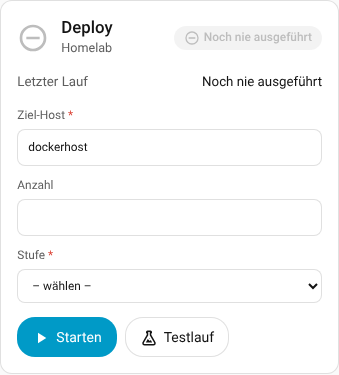
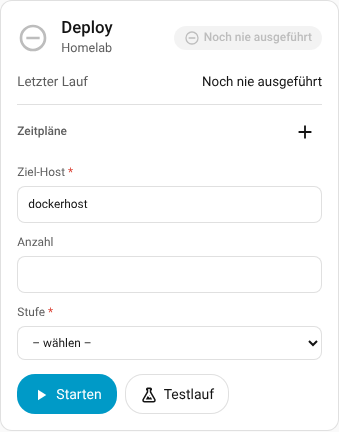
feat: Zeitplaene in der Template-Karte anlegen, aendern und loeschen
Plus-Knopf und Stift oeffnen ein Formular (Cron-Text, Name); Loeschen mit Rueckfrage.
Option edit_schedules blendet es aus. Browser-Test mit 206 Pruefungen.

Claude-Session: https://claude.ai/code/session_01RxcXBPCZy8kiUCVNSxwdkB

diff --git a/custom_components/semaphore_ui/frontend/semaphore-ui-card.js b/custom_components/semaphore_ui/frontend/semaphore-ui-card.js
@@ -68,6 +68,15 @@ const TEXTS = {
     schedule_next: "nächster Lauf",
     schedule_tz: "Zeitzone",
     schedule_switch: "Zeitplan {name} ein- oder ausschalten",
+    sched_add: "Zeitplan hinzufügen",
+    sched_edit: "Zeitplan {name} bearbeiten",
+    sched_cron: "Cron-Text",
+    sched_name: "Name",
+    sched_hint: "Minute Stunde Tag Monat Wochentag, z. B. 0 3 * * 1 (montags 3 Uhr)",
+    sched_save: "Speichern",
+    sched_cancel: "Abbrechen",
+    sched_delete: "Löschen",
+    sched_delete_sure: "Wirklich löschen?",
     last_task: "Zuletzt gelaufen",
     no_templates: "Keine Templates gefunden",
     choose_device_t: "Bitte im Karten-Editor das Template wählen (Eintrag „Projekt › Template“).",
@@ -111,6 +120,7 @@ const TEXTS = {
       show_integration_version: "Version der Integration anzeigen",
       hacs_update_entity: "Update-Entität der Integration (HACS), optional",
       show_schedules: "Zeitpläne anzeigen",
+      edit_schedules: "Zeitpläne anlegen, ändern und löschen erlauben",
     },
   },
   en: {
@@ -167,6 +177,15 @@ const TEXTS = {
     schedule_next: "next run",
     schedule_tz: "Time zone",
     schedule_switch: "Switch schedule {name} on or off",
+    sched_add: "Add schedule",
+    sched_edit: "Edit schedule {name}",
+    sched_cron: "Cron expression",
+    sched_name: "Name",
+    sched_hint: "minute hour day month weekday, e.g. 0 3 * * 1 (Mondays 3 am)",
+    sched_save: "Save",
+    sched_cancel: "Cancel",
+    sched_delete: "Delete",
+    sched_delete_sure: "Really delete?",
     last_task: "Last run",
     no_templates: "No templates found",
     choose_device_t: "Please choose the template in the card editor (entry \"Project › Template\").",
@@ -210,6 +229,7 @@ const TEXTS = {
       show_integration_version: "Show the version of the integration",
       hacs_update_entity: "Update entity of the integration (HACS), optional",
       show_schedules: "Show schedules",
+      edit_schedules: "Allow creating, changing and deleting schedules",
     },
   },
 };
@@ -438,7 +458,15 @@ const STYLE = `
   .item .name { overflow: hidden; text-overflow: ellipsis; white-space: nowrap; }
   .item .sub { overflow: hidden; text-overflow: ellipsis; white-space: nowrap; }
   .sched { margin-top: 12px; border-top: 1px solid var(--divider-color); padding-top: 6px; }
-  .sched-title { color: var(--secondary-text-color); font-size: 0.85em; font-weight: 500; margin: 4px 0 2px; }
+  .sched-title { color: var(--secondary-text-color); font-size: 0.85em; font-weight: 500; margin: 4px 0 2px; display: flex; align-items: center; justify-content: space-between; }
+  .sched-title button.icon, .sched-row button.icon { --mdc-icon-size: 18px; }
+  .sform { display: grid; gap: 8px; padding: 8px 0 4px; }
+  .sform label { display: grid; gap: 4px; font-size: 0.85em; color: var(--secondary-text-color); }
+  .sform input { font: inherit; color: var(--primary-text-color); background: var(--card-background-color, #fff);
+            border: 1px solid var(--divider-color); border-radius: 8px; padding: 8px 10px; min-width: 0; }
+  .sform input:focus { outline: 2px solid var(--primary-color); outline-offset: -1px; }
+  .sform .hint { font-size: 0.8em; color: var(--secondary-text-color); }
+  .sform .actions { margin-top: 2px; }
   .sched-row { display: flex; align-items: center; gap: 12px; padding: 5px 0; }
   .sched-row .main { flex: 1; min-width: 0; cursor: pointer; }
   .sched-row .name { overflow: hidden; text-overflow: ellipsis; white-space: nowrap; }
@@ -481,6 +509,11 @@ class SemaphoreBaseCard extends HTMLElement {
     this._ticker = null;
     this.shadowRoot.addEventListener("click", (ev) => this._onClick(ev));
     this.shadowRoot.addEventListener("change", (ev) => this._onChange(ev));
+    // typed text of the schedule form survives a redraw
+    this.shadowRoot.addEventListener("input", (ev) => {
+      const field = ev.target && ev.target.dataset && ev.target.dataset.sf;
+      if (field && this._sf) this._sf[field] = ev.target.value;
+    });
     // the clickable header areas are no <button>s: make them work with Enter / Space, too
     this.shadowRoot.addEventListener("keydown", (ev) => {
       if ((ev.key === "Enter" || ev.key === " ") && ev.target.matches && ev.target.matches('[data-action="more-info"], [data-action="filter"]')) {
@@ -646,11 +679,68 @@ class SemaphoreBaseCard extends HTMLElement {
     const text = bits.filter(Boolean).join(" · ");
     const when = on && item.next_run ? fmtDate(item.next_run, hass) : "";
     const label = T.schedule_switch.replace("{name}", item.name);
+    if (this._sf && this._sf.id === item.id) return this._scheduleForm(T, hass);
+    const editLabel = T.sched_edit.replace("{name}", item.name);
+    const editBtn = this._config.edit_schedules && item.entity_id
+      ? `<button class="icon" data-action="sched-edit" data-id="${esc(item.id)}" data-entity="${esc(item.entity_id)}" aria-label="${esc(editLabel)}" title="${esc(editLabel)}"><ha-icon icon="mdi:pencil-outline"></ha-icon></button>`
+      : "";
     return `<div class="sched-row">
       <button class="tgl${on ? " on" : ""}${busy ? " busy" : ""}" role="switch" aria-checked="${on}" aria-label="${esc(label)}" title="${esc(busy ? tx(hass).busy : label)}"${busy ? ' aria-busy="true"' : ""} data-action="schedule" data-entity="${esc(item.entity_id || "")}" ${usable ? "" : "disabled"}><span class="knob"></span></button>
       <div class="main"${item.entity_id ? ` data-action="more-info" data-entity="${esc(item.entity_id)}"` : ""}>
         <div class="name">${esc(item.name)}</div><div class="sub" title="${esc(when ? `${text} (${when})` : text)}">${esc(text)}</div>
+      </div>${editBtn}</div>`;
+  }
+
+  /** Inline form to create (``id`` null) or change a schedule of this template. */
+  _scheduleForm(T, hass) {
+    const f = this._sf;
+    const sure = !!f.confirmDelete;
+    const busy = this._busy.has("sched-form");
+    return `<div class="sform" data-sform="1">
+      <label>${esc(T.sched_cron)}<input type="text" maxlength="200" data-sf="cron" value="${esc(f.cron)}" autocomplete="off" spellcheck="false" placeholder="0 3 * * 1"></label>
+      <label>${esc(T.sched_name)}<input type="text" maxlength="100" data-sf="name" value="${esc(f.name)}" autocomplete="off"></label>
+      <div class="hint">${esc(T.sched_hint)}</div>
+      <div class="actions">
+        <button class="btn primary${busy ? " busy" : ""}" data-action="sched-save"${busy ? " disabled" : ""}><ha-icon icon="mdi:check"></ha-icon>${esc(T.sched_save)}</button>
+        <button class="btn" data-action="sched-cancel"><ha-icon icon="mdi:close"></ha-icon>${esc(T.sched_cancel)}</button>
+        ${f.id != null ? `<button class="btn danger" data-action="sched-delete"${busy ? " disabled" : ""}><ha-icon icon="mdi:delete-outline"></ha-icon>${esc(sure ? T.sched_delete_sure : T.sched_delete)}</button>` : ""}
       </div></div>`;
+  }
+  _openScheduleForm(init) {
+    this._sf = { id: null, entity: "", cron: "", name: "", confirmDelete: false, ...init };
+    this._sig = "";
+    this._update();
+    // put the cursor into the first field
+    setTimeout(() => this.shadowRoot.querySelector('[data-sf="cron"]')?.focus(), 0);
+  }
+  _closeScheduleForm() {
+    this._sf = null;
+    this._sig = "";
+    this._update();
+  }
+  async _saveSchedule() {
+    const f = this._sf;
+    if (!f) return;
+    const cron = (f.cron || "").trim();
+    if (!cron) return this.shadowRoot.querySelector('[data-sf="cron"]')?.focus();
+    const name = (f.name || "").trim();
+    const ok = await this._busyRun("sched-form", true, () =>
+      f.id == null
+        ? this._call(SEMAPHORE_DOMAIN, "create_schedule", { device_id: this._config.device_id, cron, ...(name ? { name } : {}) })
+        : this._call(SEMAPHORE_DOMAIN, "update_schedule", { entity_id: f.entity, cron, ...(name ? { name } : {}) })
+    );
+    if (ok) this._closeScheduleForm();
+  }
+  async _deleteSchedule() {
+    const f = this._sf;
+    if (!f || f.id == null) return;
+    if (!f.confirmDelete) {
+      f.confirmDelete = true; // second click confirms
+      this._sig = "";
+      return this._update();
+    }
+    const ok = await this._busyRun("sched-form", true, () => this._call(SEMAPHORE_DOMAIN, "delete_schedule", { entity_id: f.entity }));
+    if (ok) this._closeScheduleForm();
   }
   _toggleSchedule(entity) {
     if (!entity) return;
@@ -673,7 +763,7 @@ class SemaphoreBaseCard extends HTMLElement {
 /* ======================================================== template card */
 class SemaphoreTemplateCard extends SemaphoreBaseCard {
   static get defaults() {
-    return { show_survey: true, show_details: true, confirm_start: false, show_schedules: true };
+    return { show_survey: true, show_details: true, confirm_start: false, show_schedules: true, edit_schedules: true };
   }
   static getConfigElement() {
     return document.createElement("semaphore-ui-card-editor");
@@ -700,7 +790,7 @@ class SemaphoreTemplateCard extends SemaphoreBaseCard {
       const s = this._hass.states[id];
       return s ? `${id}=${s.state}|${s.state === "unavailable" ? "" : JSON.stringify(s.attributes)}` : `${id}=?`;
     });
-    return [JSON.stringify(c), this._message, this._confirmUntil > Date.now(), langOf(this._hass), Math.floor(Date.now() / 60000), ...parts].join("\n");
+    return [JSON.stringify(c), JSON.stringify(this._sf || null), this._message, this._confirmUntil > Date.now(), langOf(this._hass), Math.floor(Date.now() / 60000), ...parts].join("\n");
   }
 
   _html() {
@@ -778,8 +868,13 @@ class SemaphoreTemplateCard extends SemaphoreBaseCard {
 
     let schedHtml = "";
     const schedItems = ((this._state(byKey["sensor:next_run"]) || {}).attributes || {}).schedules;
-    if (c.show_schedules !== false && Array.isArray(schedItems) && schedItems.length) {
-      schedHtml = `<div class="sched"><div class="sched-title">${esc(T.schedules)}</div>${schedItems.map((item) => this._scheduleRow(item, T, hass, false)).join("")}</div>`;
+    const items = Array.isArray(schedItems) ? schedItems : [];
+    if (c.show_schedules !== false && (items.length || c.edit_schedules)) {
+      const add = c.edit_schedules
+        ? `<button class="icon" data-action="sched-new" aria-label="${esc(T.sched_add)}" title="${esc(T.sched_add)}"><ha-icon icon="mdi:plus"></ha-icon></button>`
+        : "";
+      const newForm = this._sf && this._sf.id == null ? this._scheduleForm(T, hass) : "";
+      schedHtml = `<div class="sched"><div class="sched-title"><span>${esc(T.schedules)}</span>${add}</div>${items.map((item) => this._scheduleRow(item, T, hass, false)).join("")}${newForm}</div>`;
     }
 
     let surveyHtml = "";
@@ -1024,6 +1119,14 @@ class SemaphoreTemplateCard extends SemaphoreBaseCard {
     const entity = target.dataset.entity;
     if (action === "more-info") return this._moreInfo(entity);
     if (action === "schedule") return this._toggleSchedule(entity);
+    if (action === "sched-new") return this._openScheduleForm({});
+    if (action === "sched-edit") {
+      const item = (((this._state(this._ents().byKey["sensor:next_run"]) || {}).attributes || {}).schedules || []).find((i) => String(i.id) === target.dataset.id);
+      return item && this._openScheduleForm({ id: item.id, entity, cron: item.type === "run_at" ? "" : item.cron || "", name: item.name || "" });
+    }
+    if (action === "sched-save") return this._saveSchedule();
+    if (action === "sched-cancel") return this._closeScheduleForm();
+    if (action === "sched-delete") return this._deleteSchedule();
     if (action === "pkgs") {
       const key = target.dataset.key || "";
       this._pkgsOpen = this._pkgsOpen || new Set();
@@ -1383,7 +1486,7 @@ class SemaphoreCardEditor extends HTMLElement {
         { name: "show_schedules", selector: { boolean: {} } }
       );
     } else {
-      base.push({ name: "show_survey", selector: { boolean: {} } }, { name: "show_details", selector: { boolean: {} } }, { name: "confirm_start", selector: { boolean: {} } }, { name: "show_schedules", selector: { boolean: {} } });
+      base.push({ name: "show_survey", selector: { boolean: {} } }, { name: "show_details", selector: { boolean: {} } }, { name: "confirm_start", selector: { boolean: {} } }, { name: "show_schedules", selector: { boolean: {} } }, { name: "edit_schedules", selector: { boolean: {} } });
     }
     return base;
   }

diff --git a/tests/browser/check_cards.py b/tests/browser/check_cards.py
@@ -283,6 +283,56 @@ def wait_for(predicate, seconds: float = 25.0) -> bool:
     return False
 
 
+def test_schedule_editing(page: Page) -> None:
+    """Zeitpläne in der Template-Karte anlegen, ändern und löschen (Aktionen create/update/delete_schedule)."""
+    deploy, host = tcard(page, "Deploy"), tcard(page, "Host-Update")
+    before = ctl("schedules")
+
+    # anlegen
+    deploy.locator('[data-action="sched-new"]').click()
+    form = deploy.locator(".sform")
+    check("Zeitplan anlegen: Formular mit Cron-Text und Name", form.count() == 1 and form.locator('[data-sf="cron"]').count() == 1 and form.locator('[data-sf="name"]').count() == 1)
+    form.locator('[data-sf="cron"]').fill("kein cron")
+    form.locator('[data-action="sched-save"]').click()
+    time.sleep(1.5)
+    check("Ungültiger Cron-Text: Formular bleibt offen, nichts wurde angelegt", deploy.locator(".sform").count() == 1 and ctl("schedules") == before, ctl("schedules"))
+    deploy.locator('[data-sf="cron"]').fill("15 6 * * 1")
+    deploy.locator('[data-sf="name"]').fill("Montags früh")
+    deploy.locator('[data-action="sched-save"]').click()
+    time.sleep(3)
+    created = [s for s in ctl("schedules") if s["name"] == "Montags früh"]
+    check("Zeitplan angelegt: Semaphore kennt ihn mit Cron-Text und Template", len(created) == 1 and created[0]["cron"] == "15 6 * * 1" and created[0]["active"] is True, ctl("schedules"))
+    rows = deploy.locator(".sched-row")
+    check("Neuer Zeitplan erscheint in der Karte, Formular ist zu", deploy.locator(".sform").count() == 0 and rows.count() == 1 and "15 6 * * 1" in rows.first.inner_text(), rows.count())
+
+    # ändern (Text im Formular bleibt, wenn zwischendurch neu gezeichnet wird)
+    rows.first.locator('[data-action="sched-edit"]').click()
+    check("Bearbeiten: Formular enthält die bisherigen Werte", deploy.locator('[data-sf="cron"]').input_value() == "15 6 * * 1" and deploy.locator('[data-sf="name"]').input_value() == "Montags früh")
+    deploy.locator('[data-sf="cron"]').fill("45 7 * * 2")
+    deploy.locator('[data-action="sched-save"]').click()
+    time.sleep(3)
+    changed = [s for s in ctl("schedules") if s["name"] == "Montags früh"]
+    check("Zeitplan geändert: neuer Cron-Text in Semaphore", len(changed) == 1 and changed[0]["cron"] == "45 7 * * 2", changed)
+
+    # abbrechen ändert nichts
+    deploy.locator('[data-action="sched-edit"]').click()
+    deploy.locator('[data-sf="cron"]').fill("1 1 1 1 1")
+    deploy.locator('[data-action="sched-cancel"]').click()
+    time.sleep(0.5)
+    check("Abbrechen: Formular zu, nichts gesendet", deploy.locator(".sform").count() == 0 and [s for s in ctl("schedules") if s["name"] == "Montags früh"][0]["cron"] == "45 7 * * 2")
+
+    # löschen: erst nachfragen
+    deploy.locator('[data-action="sched-edit"]').click()
+    deploy.locator('[data-action="sched-delete"]').click()
+    time.sleep(0.5)
+    check("Löschen fragt erst nach", "Wirklich" in deploy.locator('[data-action="sched-delete"]').inner_text() and len(ctl("schedules")) == len(before) + 1)
+    deploy.locator('[data-action="sched-delete"]').click()
+    time.sleep(3)
+    check("Zeitplan gelöscht: weg in Semaphore und in der Karte", ctl("schedules") == before and deploy.locator(".sched-row").count() == 0, ctl("schedules"))
+    check("Projekt-Karte hat keine Bearbeiten-Knöpfe", page.locator("semaphore-ui-project-card").first.locator('[data-action="sched-edit"], [data-action="sched-new"]').count() == 0)
+    check("Template-Karte: bestehende Zeitpläne haben einen Bearbeiten-Knopf", host.locator('[data-action="sched-edit"]').count() == 2)
+
+
 def test_schedules_ui(page: Page) -> None:
     """0.2.0: Zeitpläne, „Nächster Lauf“ und „Zuletzt erfolgreich“ in den Karten; der Schalter wirkt auf Semaphore."""
     host, docker, deploy = tcard(page, "Host-Update"), tcard(page, "docker-system"), tcard(page, "Deploy")
@@ -304,7 +354,7 @@ def test_schedules_ui(page: Page) -> None:
     check("Template-Karte (Fehler): Zeile „Nächster Lauf“ und „Zuletzt erfolgreich“", next_row.count() == 1 and success_row.count() == 1, (next_row.count(), success_row.count()))
     check("Zuletzt erfolgreich nennt Datum und relative Zeit", "·" in success_row.inner_text() and any(w in success_row.inner_text() for w in ("vorgestern", "vor 2 Tag", "vor 3 Tag")), success_row.inner_text())
     check("Template-Karte (Erfolg): keine Zeile „Zuletzt erfolgreich“, aber der nächste Lauf", docker.locator(".row.click", has_text="Zuletzt erfolgreich").count() == 0 and docker.locator(".row.click", has_text="Nächster Lauf").count() == 1)
-    check("Template ohne Zeitplan: kein Abschnitt, keine Zeile", deploy.locator(".sched").count() == 0 and deploy.locator(".row.click", has_text="Nächster Lauf").count() == 0)
+    check("Template ohne Zeitplan: nur „+“ zum Anlegen, keine Zeitplan-Zeile, keine Zeile „Nächster Lauf“", deploy.locator(".sched-row").count() == 0 and deploy.locator('.sched [data-action="sched-new"]').count() == 1 and deploy.locator(".row.click", has_text="Nächster Lauf").count() == 0)
 
     watch_more_info(page)
     seen = []
@@ -398,6 +448,12 @@ def test_docs_screenshots(playwright) -> None:
                 tcard(page, "docker-system").locator(".host").first.locator('button[data-action="pkgs"]').click()
                 time.sleep(0.5)
                 take(tcard(page, "docker-system"), "template-card-updates-open")
+                host = tcard(page, "Host-Update")
+                host.locator('[data-action="sched-edit"]').first.click()
+                time.sleep(0.5)
+                take(host, "template-card-schedule-edit")
+                host.locator('[data-action="sched-cancel"]').click()
+                time.sleep(0.4)
                 tcard(page, "docker-system").locator(".host").first.locator('button[data-action="pkgs"]').click()
                 time.sleep(0.4)
             dashboard_shot(page, f"dashboard{suffix}")
@@ -1139,6 +1195,7 @@ def main() -> int:
             test_project_filters(page)
             test_schedules_ui(page)
             test_busy_schedule(page)
+            test_schedule_editing(page)
             test_interactions(page)
             test_confirm_and_project_list(page)
             test_editor(page)

diff --git a/tests/browser/fake_server.py b/tests/browser/fake_server.py
@@ -84,7 +84,7 @@ def make_app(fake: FakeSemaphore) -> web.Application:
         if action == "puts":  # PUTs (switch a schedule on / off) received so far
             return web.json_response([[a, b, c] for a, b, c in fake.requests if a == "PUT"])
         if action == "schedules":  # state of the schedules in the fake Semaphore
-            return web.json_response([{"id": s["id"], "name": s["name"], "active": s["active"]} for s in fake.schedules.values()])
+            return web.json_response([{"id": s["id"], "name": s["name"], "active": s["active"], "cron": s["cron_format"], "template_id": s["template_id"]} for s in fake.schedules.values()])
         if action == "tokens":  # the API tokens in the fake Semaphore (name, days left)
             now = datetime.now(UTC)
             return web.json_response(

diff --git a/README.md b/README.md
@@ -292,7 +292,10 @@ Semaphore selbst, wann etwas startet, und ein Neustart von Home Assistant änder
   listet alle Zeitpläne des Projekts (der früheste zuerst, ausgeschaltete zuletzt). Option `show_schedules: false` blendet den
   Abschnitt aus.
 * **Automationen:** Der Schalter ist ein normaler `switch` – z. B. „Zeitplan Linux-Updates nur an, wenn jemand zu Hause ist“.
-* **Anlegen, ändern, löschen (Aktionen, ohne Karte):**
+* **Anlegen, ändern, löschen:** In der **Template-Karte** gibt es dafür ein „+“ an der Überschrift „Zeitpläne“ und je Zeitplan einen Stift. Es öffnet sich ein kleines Formular (Cron-Text, Name; Löschen fragt noch einmal nach). `edit_schedules: false` blendet beides aus. Die Projekt-Karte bleibt reine Anzeige. Die Karte nutzt diese Aktionen, du kannst sie auch selbst aufrufen:
+
+  ![Template-Karte mit Zeitplan-Formular](docs/screenshots/template-card-schedule-edit.png)
+
   * `semaphore_ui.create_schedule` – Ziel: das **Template-Gerät**; Felder `cron` (Pflicht, fünf Felder wie oben), `name` (Standard: Name des Templates), `active` (Standard: an). Antwort: `schedule_id` und `name`.
   * `semaphore_ui.update_schedule` – Ziel: der **Schalter** des Zeitplans; Felder `cron`, `name`, `template_id`, `active`. Nicht genannte Felder bleiben unverändert.
   * `semaphore_ui.delete_schedule` – Ziel: der **Schalter** des Zeitplans. Der Schalter verschwindet mit dem nächsten Abruf.
@@ -300,7 +303,7 @@ Semaphore selbst, wann etwas startet, und ein Neustart von Home Assistant änder
   Der Cron-Text wird vorher mit derselben Logik wie für „Nächster Lauf“ geprüft; ein Fehler steht dann klar in der Meldung, Semaphore wird nicht gefragt.
   Beim Ändern schickt die Integration den **ganzen** Zeitplan (`PUT /api/project/<id>/schedules/<id>`), weil Semaphore das so erwartet.
   Beispiel: `action: semaphore_ui.create_schedule` mit `target: {device_id: …}` und `data: {cron: "0 3 * * 1", name: "Montags"}`.
-  Einmalige Zeitpläne (`run_at`) und eine eigene Zeitplan-Karte gibt es noch nicht.
+  Einmalige Zeitpläne (`run_at`) lassen sich so noch nicht anlegen (der Stift zeigt bei ihnen keinen Cron-Text).
 
 ## Dashboard-Karten
 
@@ -361,6 +364,7 @@ show_survey: true                              # Eingabefelder der Survey-Variab
 show_details: true                             # Fehlergrund + Parameter (Standard: true)
 confirm_start: true                            # „Wirklich starten?“ vor dem Start (Standard: false)
 show_schedules: true                           # Zeitpläne mit Schalter (Standard: true)
+edit_schedules: true                           # „+“ und Stift: Zeitpläne in der Karte anlegen, ändern, löschen (Standard: true)
 ```
 
 ### Projekt-Karte `custom:semaphore-ui-project-card`

diff --git a/CHANGELOG.md b/CHANGELOG.md
@@ -4,6 +4,7 @@
 - Neue Aktionen `semaphore_ui.create_schedule` (Ziel: Template-Gerät), `update_schedule` und `delete_schedule` (Ziel: Zeitplan-Schalter).
   Cron-Text wird vorab geprüft (klare Meldung statt „bad request“); beim Ändern wird der ganze Zeitplan an Semaphore geschickt.
   Die Schalter erscheinen/verschwinden mit dem nächsten Abruf. Tests: 274 pytest.
+- **Template-Karte:** „+“ an der Überschrift „Zeitpläne“ und Stift je Zeitplan öffnen ein Formular (Cron-Text, Name; Löschen mit Rückfrage). Option `edit_schedules` (Standard: an) blendet es aus; die Projekt-Karte zeigt nur an. Browser-Test: 206 Prüfungen.
 - Noch **nicht an einer echten Instanz geprüft** (Aufbau der Anfragen aus dem Semaphore-Quellcode abgeleitet) – siehe Issue #1.
 - README: Hinweis für Repo-Betreiber zu Bildpfaden entfernt.
 
